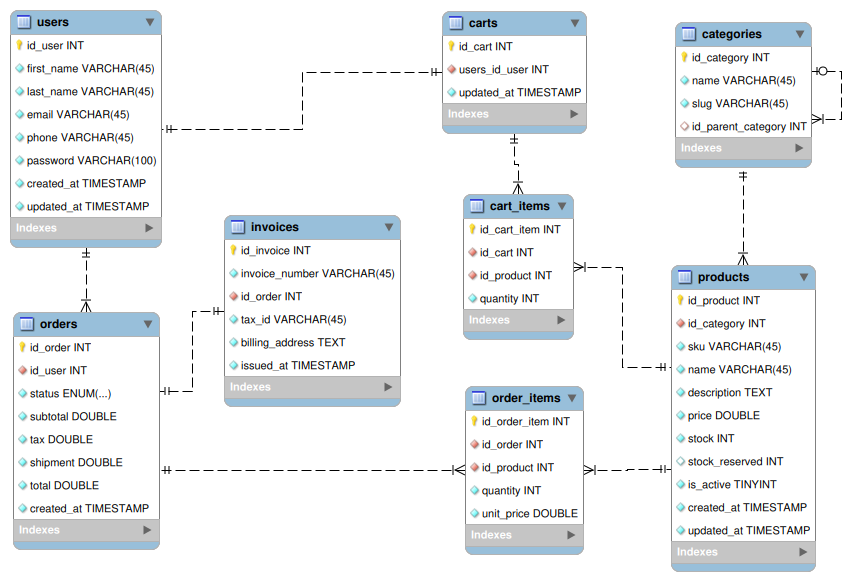
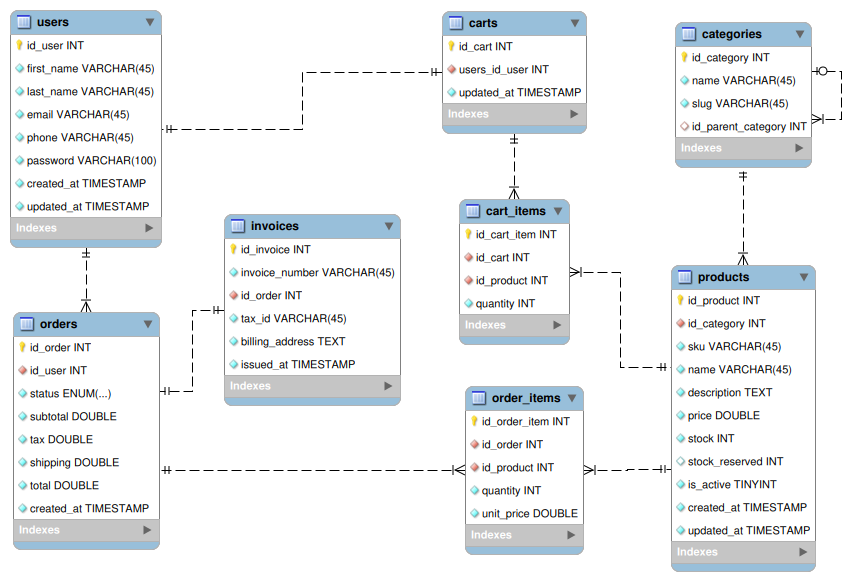
Se agregó get todas las ordenes

Changed region(s): [[0.2444, 0.3408, 0.4583, 0.7126], [0.5194, 0.3098, 0.7027, 0.6196], [0.0611, 0.7745, 0.1528, 0.8055]]

diff --git a/src/main/java/mx/uam/cua/store/entity/Order.java b/src/main/java/mx/uam/cua/store/entity/Order.java
@@ -1,0 +1,98 @@
+package mx.uam.cua.store.entity;
+
+import jakarta.persistence.*;
+import mx.uam.cua.store.dto.OrderDTO;
+import mx.uam.cua.store.enums.Status;
+
+import java.time.LocalDateTime;
+
+@Entity
+@Table(name = "orders")
+public class Order {
+    @Id
+    @GeneratedValue(strategy = GenerationType.AUTO)
+    @Column(name = "id_order")
+    private String idOrder;
+
+    @Enumerated(EnumType.STRING)
+    @Column(nullable = false)
+    private Status status;
+    @Column(nullable = false)
+    private double subtotal;
+    @Column(nullable = false)
+    private double tax;
+    @Column(nullable = false)
+    private double shipping;
+    @Column(nullable = false)
+    private double total;
+    @Column(name = "created_at", nullable = false)
+    private LocalDateTime createdAt;
+
+    @ManyToOne
+    @JoinColumn(name = "id_user", nullable = false)
+    private User user;
+
+    public String getIdOrder() {
+        return idOrder;
+    }
+
+    public void setIdOrder(String idOrder) {
+        this.idOrder = idOrder;
+    }
+
+    public Status getStatus() {
+        return status;
+    }
+
+    public void setStatus(Status status) {
+        this.status = status;
+    }
+
+    public double getSubtotal() {
+        return subtotal;
+    }
+
+    public void setSubtotal(double subtotal) {
+        this.subtotal = subtotal;
+    }
+
+    public double getTax() {
+        return tax;
+    }
+
+    public void setTax(double tax) {
+        this.tax = tax;
+    }
+
+    public double getShipping() {
+        return shipping;
+    }
+
+    public void setShipping(double shipping) {
+        this.shipping = shipping;
+    }
+
+    public double getTotal() {
+        return total;
+    }
+
+    public void setTotal(double total) {
+        this.total = total;
+    }
+
+    public LocalDateTime getCreatedAt() {
+        return createdAt;
+    }
+
+    public void setCreatedAt(LocalDateTime createdAt) {
+        this.createdAt = createdAt;
+    }
+
+    public User getUser() {
+        return user;
+    }
+
+    public void setUser(User user) {
+        this.user = user;
+    }
+}

diff --git a/src/main/java/mx/uam/cua/store/dto/OrderDTO.java b/src/main/java/mx/uam/cua/store/dto/OrderDTO.java
@@ -1,0 +1,82 @@
+package mx.uam.cua.store.dto;
+
+import mx.uam.cua.store.entity.User;
+import mx.uam.cua.store.enums.Status;
+
+import java.time.LocalDateTime;
+
+public class OrderDTO {
+    private String idOrder;
+    private Status status;
+    private double subtotal;
+    private double tax;
+    private double shipping;
+    private double total;
+    private LocalDateTime createdAt;
+
+    private UserDTO user;
+
+    public String getIdOrder() {
+        return idOrder;
+    }
+
+    public void setIdOrder(String idOrder) {
+        this.idOrder = idOrder;
+    }
+
+    public Status getStatus() {
+        return status;
+    }
+
+    public void setStatus(Status status) {
+        this.status = status;
+    }
+
+    public double getSubtotal() {
+        return subtotal;
+    }
+
+    public void setSubtotal(double subtotal) {
+        this.subtotal = subtotal;
+    }
+
+    public double getTax() {
+        return tax;
+    }
+
+    public void setTax(double tax) {
+        this.tax = tax;
+    }
+
+    public double getShipping() {
+        return shipping;
+    }
+
+    public void setShipping(double shipping) {
+        this.shipping = shipping;
+    }
+
+    public double getTotal() {
+        return total;
+    }
+
+    public void setTotal(double total) {
+        this.total = total;
+    }
+
+    public LocalDateTime getCreatedAt() {
+        return createdAt;
+    }
+
+    public void setCreatedAt(LocalDateTime createdAt) {
+        this.createdAt = createdAt;
+    }
+
+    public UserDTO getUser() {
+        return user;
+    }
+
+    public void setUser(UserDTO user) {
+        this.user = user;
+    }
+}

diff --git a/src/main/java/mx/uam/cua/store/service/impl/OrderServiceImpl.java b/src/main/java/mx/uam/cua/store/service/impl/OrderServiceImpl.java
@@ -1,0 +1,34 @@
+package mx.uam.cua.store.service.impl;
+
+import mx.uam.cua.store.dto.OrderDTO;
+import mx.uam.cua.store.entity.Order;
+import mx.uam.cua.store.mapper.OrderMapper;
+import mx.uam.cua.store.repository.OrderRepository;
+import mx.uam.cua.store.service.OrderSevice;
+import org.springframework.stereotype.Service;
+
+import java.util.ArrayList;
+import java.util.List;
+
+@Service
+public class OrderServiceImpl implements OrderSevice {
+
+    private final OrderRepository orderRepository;
+    private final OrderMapper orderMapper;
+
+
+    public OrderServiceImpl(OrderRepository orderRepository, OrderMapper orderMapper) {
+        this.orderRepository = orderRepository;
+        this.orderMapper = orderMapper;
+    }
+
+    @Override
+    public List<OrderDTO> findAll() {
+        List<Order>  orders = orderRepository.findAll();
+        List<OrderDTO>  orderDTOs = new ArrayList<>();
+        for (Order order : orders) {
+            orderDTOs.add(orderMapper.toOrderDTO(order));
+        }
+        return orderDTOs;
+    }
+}

diff --git a/src/main/java/mx/uam/cua/store/mapper/impl/OrderMapperImpl.java b/src/main/java/mx/uam/cua/store/mapper/impl/OrderMapperImpl.java
@@ -1,0 +1,26 @@
+package mx.uam.cua.store.mapper.impl;
+
+import mx.uam.cua.store.dto.OrderDTO;
+import mx.uam.cua.store.entity.Order;
+import mx.uam.cua.store.mapper.OrderMapper;
+import org.springframework.beans.BeanUtils;
+import org.springframework.stereotype.Component;
+
+@Component
+public class OrderMapperImpl implements OrderMapper {
+
+    @Override
+    public Order toOrder(OrderDTO orderDTO) {
+        Order order = new Order();
+        BeanUtils.copyProperties(orderDTO, order);
+        return order;
+    }
+
+    @Override
+    public OrderDTO toOrderDTO(Order order) {
+        OrderDTO orderDTO = new OrderDTO();
+        BeanUtils.copyProperties(order, orderDTO);
+        return orderDTO;
+    }
+
+}

diff --git a/src/main/java/mx/uam/cua/store/controller/OrderController.java b/src/main/java/mx/uam/cua/store/controller/OrderController.java
@@ -1,0 +1,24 @@
+package mx.uam.cua.store.controller;
+
+import mx.uam.cua.store.dto.OrderDTO;
+import mx.uam.cua.store.service.OrderSevice;
+import org.springframework.web.bind.annotation.GetMapping;
+import org.springframework.web.bind.annotation.RequestMapping;
+import org.springframework.web.bind.annotation.RestController;
+
+import java.util.List;
+
+@RestController
+@RequestMapping("/v1")
+public class OrderController {
+    private final OrderSevice orderSevice;
+
+    public OrderController(OrderSevice orderSevice) {
+        this.orderSevice = orderSevice;
+    }
+
+    @GetMapping("/orders")
+    public List<OrderDTO> findAll(){
+        return orderSevice.findAll();
+    }
+}

diff --git a/src/main/java/mx/uam/cua/store/repository/OrderRepository.java b/src/main/java/mx/uam/cua/store/repository/OrderRepository.java
@@ -1,0 +1,10 @@
+package mx.uam.cua.store.repository;
+
+import mx.uam.cua.store.entity.Order;
+import org.springframework.data.jpa.repository.JpaRepository;
+import org.springframework.stereotype.Repository;
+
+@Repository
+public interface OrderRepository extends JpaRepository<Order, Long> {
+
+}

diff --git a/src/main/java/mx/uam/cua/store/mapper/OrderMapper.java b/src/main/java/mx/uam/cua/store/mapper/OrderMapper.java
@@ -1,0 +1,12 @@
+package mx.uam.cua.store.mapper;
+
+import mx.uam.cua.store.dto.OrderDTO;
+import mx.uam.cua.store.entity.Order;
+
+public interface OrderMapper {
+
+    OrderDTO toOrderDTO(Order order);
+
+    Order toOrder(OrderDTO orderDTO);
+
+}

diff --git a/src/main/java/mx/uam/cua/store/service/OrderSevice.java b/src/main/java/mx/uam/cua/store/service/OrderSevice.java
@@ -1,0 +1,9 @@
+package mx.uam.cua.store.service;
+
+import mx.uam.cua.store.dto.OrderDTO;
+
+import java.util.List;
+
+public interface OrderSevice {
+    List<OrderDTO> findAll();
+}

diff --git a/src/main/java/mx/uam/cua/store/enums/Status.java b/src/main/java/mx/uam/cua/store/enums/Status.java
@@ -1,0 +1,5 @@
+package mx.uam.cua.store.enums;
+
+public enum Status {
+    PENDING, PAID, SHIPPED, CANCELLED
+}
